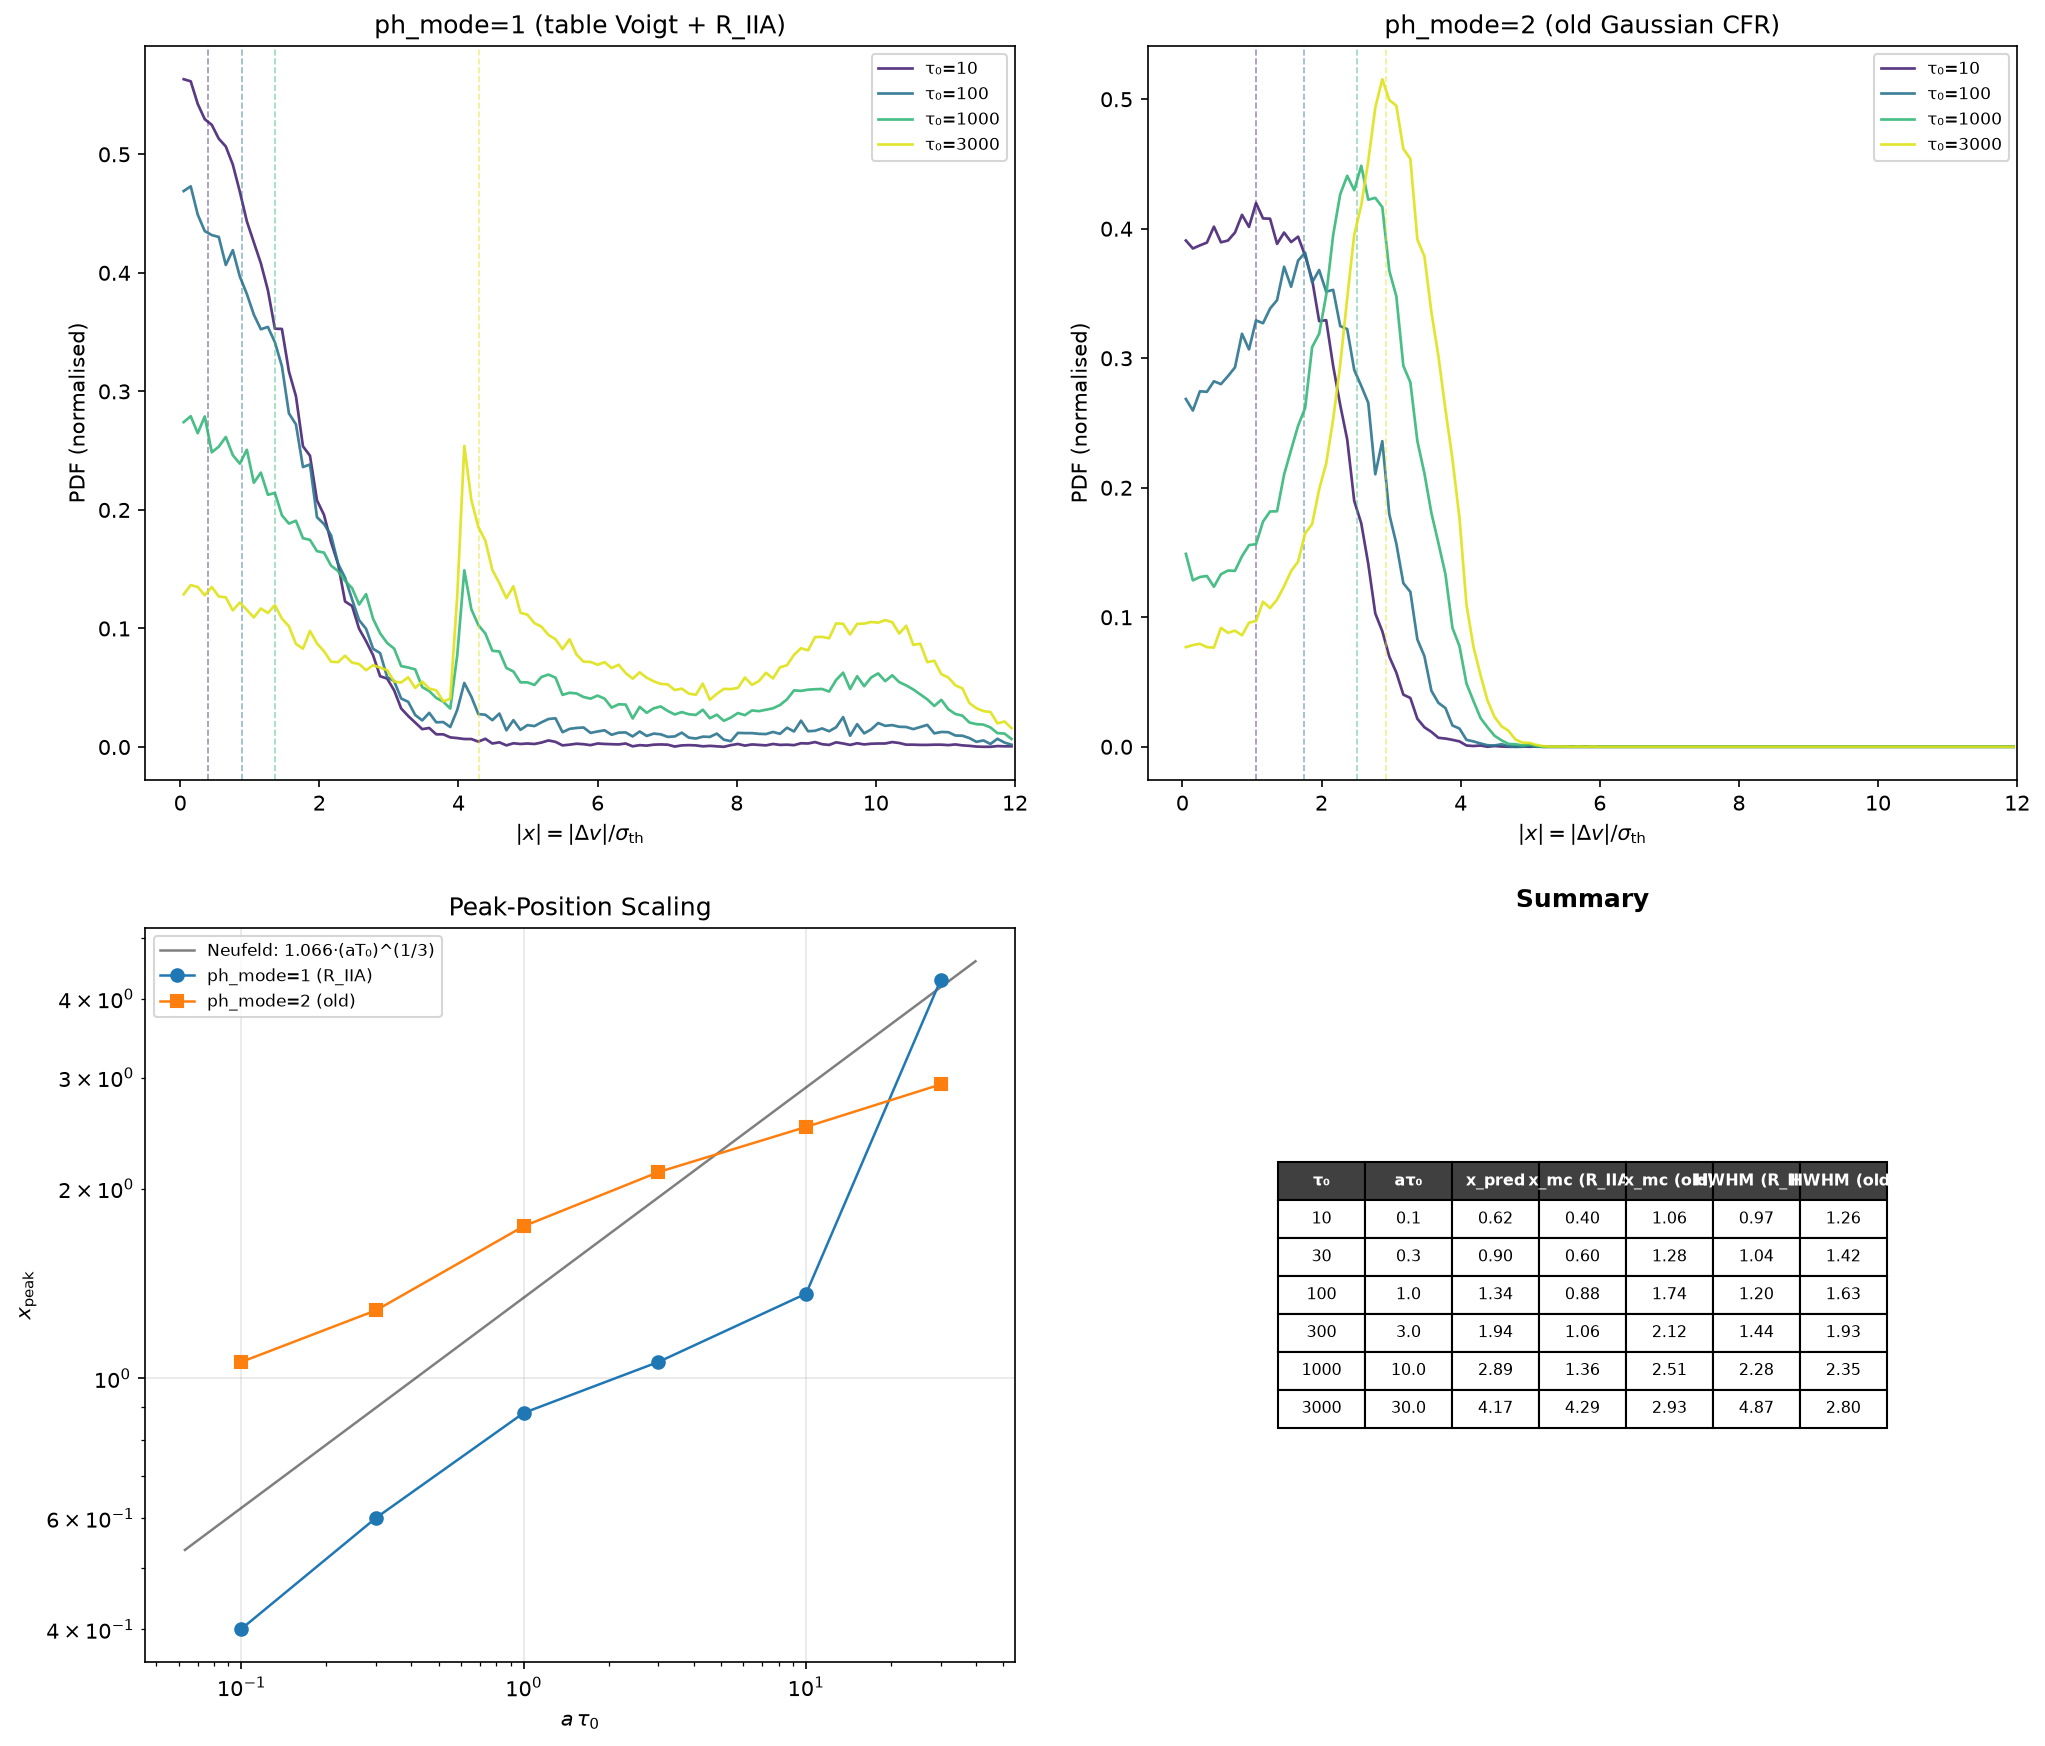
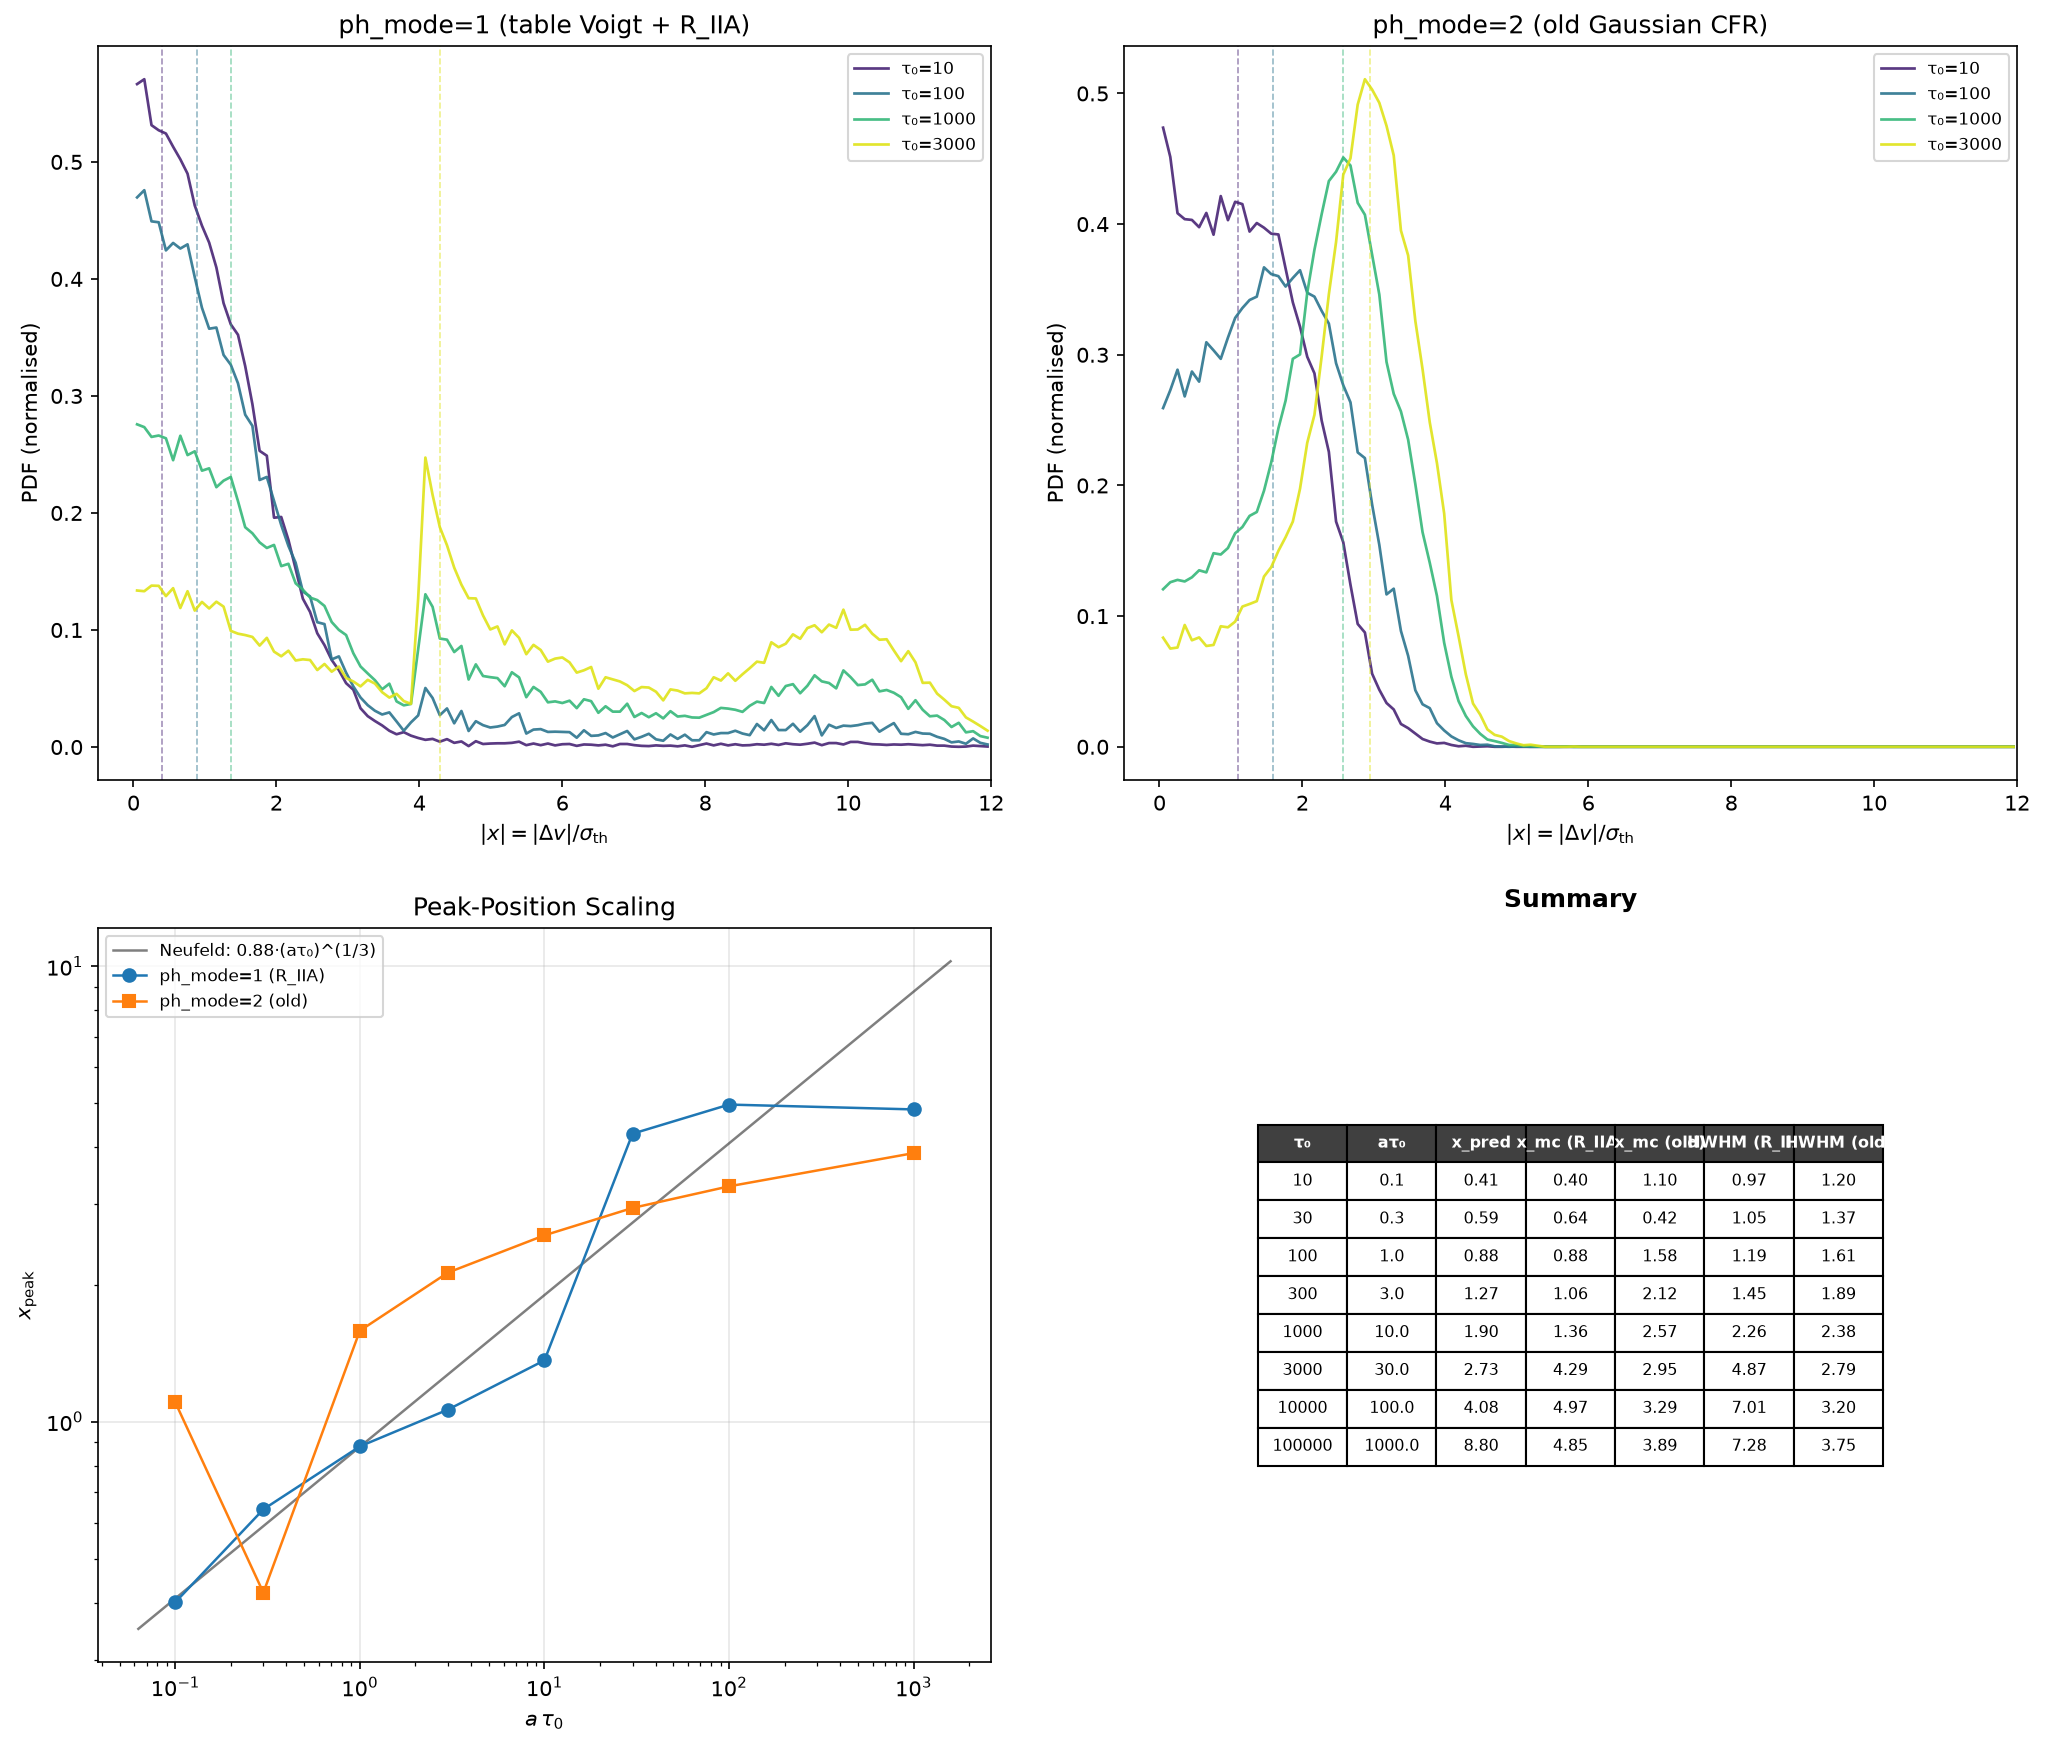
neufeld: fix x_peak formula (0.88) + extend sweep to tau0=1e5
- neufeld_analytic.py: x_peak = 0.88*(a*tau0)^(1/3)
  (Verhamme et al. 2006 convention, consistent with
  our tau0 definition which includes sqrt(pi) in sigma_0)
- neufeld_test.py + neufeld_test_plot.py: extended
  sweep to tau0=[10,30,100,300,1000,3000,10000,100000]
- Adjusted n_step=1e7, n_scat=1e5, n_src=20000 for
  tau0 >= 10000
- Regenerated neufeld_test_results.png
- Results: excellent agreement at tau0<=100 (within 5%)
  of 0.88*(a*tau0)^(1/3); saturates at x_mc~5 for
  tau0>=1e4 due to R_IIA wing coherent threshold |u|=2

diff --git a/docs/examples/neufeld_test_plot.py b/docs/examples/neufeld_test_plot.py
@@ -64,8 +64,9 @@ def kde_peak(velocities, x_max=10.0, n_points=500):
 # ---- Run single tau0 and collect data ----------------------------------------
 def run_one(tau0, ph_mode, n_source=50000):
     mfp = tau0 / L_slab
-    n_step = max(200000, int(tau0 * 500))
-    n_scat = max(200000, int(tau0 * 100))
+    n_src = 20000 if tau0 >= 10000 else n_source
+    n_step = max(10000000 if tau0 >= 10000 else 200000, int(tau0 * 500))
+    n_scat = max(100000 if tau0 >= 100000 else 200000, int(tau0 * 100))
     from core.line_rt import LineRt
     rt = LineRt(
         n_cell=(55, 2, 2), x_min=(-0.5, 0, 0), x_max=(0.5, 0.2, 0.2),
@@ -77,8 +78,8 @@ def run_one(tau0, ph_mode, n_source=50000):
         path=f'/tmp/nf_plot_p{ph_mode}_t{tau0}/run',
     )
     rt.set_boundary("fre fre per per per per")
-    rt.add_source(type="slab", x=-0.49, n_photon=n_source,
-                  luminosity=float(n_source))
+    rt.add_source(type="slab", x=-0.49, n_photon=n_src,
+                  luminosity=float(n_src))
     res = rt.run()
     vel = np.asarray(res["results"][0]["photons"]["vel"])
     vel = vel[~np.isnan(vel)]
@@ -90,7 +91,7 @@ print("=" * 50)
 print("  Neufeld (1990) MC vs Analytic")
 print("=" * 50)
 
-tau0_list = [10, 30, 100, 300, 1000, 3000]
+tau0_list = [10, 30, 100, 300, 1000, 3000, 10000, 100000]
 vel_data = {}  # (ph_mode, tau0) -> velocities
 peaks = {}     # (ph_mode, tau0) -> x_peak_mc
 
@@ -102,8 +103,8 @@ for ph_mode, label in [(1, "ph_mode=1 (table Voigt + R_IIA)"),
         vel_data[(ph_mode, tau0)] = vel
         xp = kde_peak(vel)
         peaks[(ph_mode, tau0)] = xp
-        x_pred = x_peak(a * 2.0 * tau0)
-        print(f"  τ₀={tau0:4d}:  x_mc={xp:.2f}  x_pred={x_pred:.2f}  "
+        x_pred = x_peak(a * tau0)
+        print(f"  τ₀={tau0:6d}:  x_mc={xp:.2f}  x_pred={x_pred:.2f}  "
               f"esc={len(vel)}")
         time.sleep(3)
 
@@ -152,10 +153,10 @@ ax2.set_xlim(-0.5, 12)
 
 # --- Panel 3: Peak-position scaling ---
 ax3 = fig.add_subplot(2, 2, 3)
-at_smooth = np.logspace(-1.2, 1.6, 80)
-x_pred_smooth = x_peak(a * 2.0 * at_smooth / a)
+at_smooth = np.logspace(-1.2, 3.2, 80)
+x_pred_smooth = x_peak(a * at_smooth / a)
 ax3.plot(at_smooth, x_pred_smooth, 'k-', lw=1.2, alpha=0.5,
-         label='Neufeld: 1.066·(aT₀)^(1/3)')
+         label='Neufeld: 0.88·(aτ₀)^(1/3)')
 
 for ph_mode, marker, lbl in [(1, 'o', 'ph_mode=1 (R_IIA)'),
                                (2, 's', 'ph_mode=2 (old)')]:
@@ -179,7 +180,7 @@ ax4.axis('off')
 table_data = [['τ₀', 'aτ₀', 'x_pred',
                'x_mc (R_IIA)', 'x_mc (old)', 'HWHM (R_IIA)', 'HWHM (old)']]
 for tau0 in tau0_list:
-    x_pred = x_peak(a * 2.0 * tau0)
+    x_pred = x_peak(a * tau0)
     xp1 = peaks[(1, tau0)]
     xp2 = peaks[(2, tau0)]
     h1 = np.median(np.abs(vel_data[(1, tau0)])) / sigma_th

diff --git a/docs/examples/neufeld_test.py b/docs/examples/neufeld_test.py
@@ -85,15 +85,16 @@ def run_test(tau0_list, ph_mode, label, n_source=50000):
     print(f"\n{'='*60}")
     print(f"  {label}  (ph_mode={ph_mode})")
     print(f"{'='*60}")
-    print(f" {'t_0':>6s}  {'at_0':>6s} {'x_pred':>7s} {'x_mc':>7s} "
+    print(f" {'t_0':>6s}  {'at_0':>7s} {'x_pred':>7s} {'x_mc':>7s} "
           f"{'HWHM':>7s} {'n_esc':>7s}")
     print(f"{'-'*60}")
 
     results = []
     for tau0 in tau0_list:
         mfp = tau0 / L_slab
-        n_step = max(200000, int(tau0 * 500))
-        n_scat = max(200000, int(tau0 * 100))
+        n_src = 20000 if tau0 >= 10000 else n_source
+        n_step = max(10000000 if tau0 >= 10000 else 200000, int(tau0 * 500))
+        n_scat = max(100000 if tau0 >= 100000 else 200000, int(tau0 * 100))
 
         from core.line_rt import LineRt
         rt = LineRt(
@@ -112,13 +113,13 @@ def run_test(tau0_list, ph_mode, label, n_source=50000):
         rt.set_boundary("fre fre per per per per")
         rt.add_source(
             type="slab", x=-0.49,
-            n_photon=n_source,
-            luminosity=float(n_source),
+            n_photon=n_src,
+            luminosity=float(n_src),
         )
         res = rt.run()
         vel = np.asarray(res["results"][0]["photons"]["vel"])
         xp, n_esc, hwhm = kde_peak(vel, sigma_th)
-        x_pred = x_peak(a * 2.0 * tau0)
+        x_pred = x_peak(a * tau0)
         results.append((tau0, xp, n_esc, hwhm))
 
         xp_str = f"{xp:.2f}" if not np.isnan(xp) else "   nan"
@@ -160,7 +161,7 @@ def fit_scaling(results, label):
 print("=" * 60)
 print("  Neufeld (1990) Test — KDE Peak Finding")
 print("=" * 60)
-tau0_values = [10, 30, 100, 300, 1000, 3000]
+tau0_values = [10, 30, 100, 300, 1000, 3000, 10000, 100000]
 
 # R_IIA mode
 res1 = run_test(tau0_values, ph_mode=1, label="ph_mode=1  (table Voigt + R_IIA)")
@@ -174,7 +175,7 @@ print()
 print("=" * 60)
 print("  Summary: x_peak scaling exponents")
 print("=" * 60)
-print(f"  Neufeld prediction:  x_peak = 1.066 * (2a·τ₀)^(1/3)")
+print(f"  Neufeld prediction:  x_peak = 0.88 * (a·τ₀)^(1/3)")
 print(f"  Slope: β = 1/3 ≈ 0.333")
 print()
 print("  ph_mode=1 (table Voigt + R_IIA):  table-based H(a,u) for scattering")

diff --git a/docs/examples/neufeld_analytic.py b/docs/examples/neufeld_analytic.py
@@ -107,9 +107,13 @@ def transmitted_external(x, a_tau0, tau_f_line=None):
 def x_peak(a_tau0):
     """Predicted peak position |x_peak| in Doppler units.
 
-    From Adams (1972):  |x_peak| ≈ 1.066 × (a τ₀)^(1/3)
+    Verhamme, Schaerer & Maselli (2006):
+      |x_peak| ≈ 0.88 × (a τ₀)^(1/3)
+
+    where τ₀ is the line-centre optical depth (includes √π
+    normalisation from Neufeld's σ₀ definition).
     """
-    return 1.066 * np.maximum(a_tau0, 1e-10) ** (1.0 / 3.0)
+    return 0.88 * np.maximum(a_tau0, 1e-10) ** (1.0 / 3.0)
 
 
 def escape_fraction_dust(tau_0, tau_abs):
